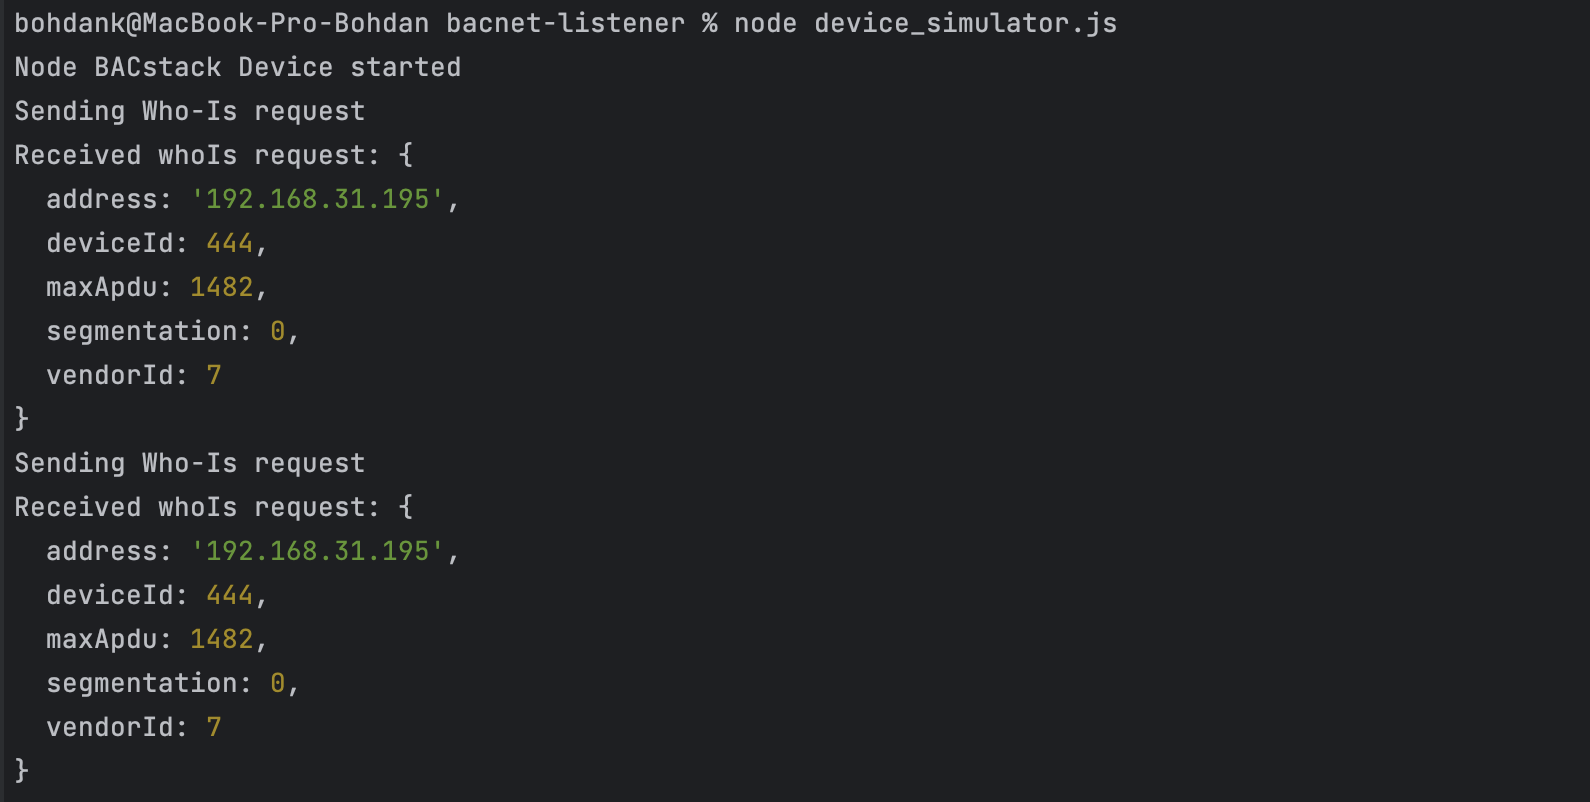
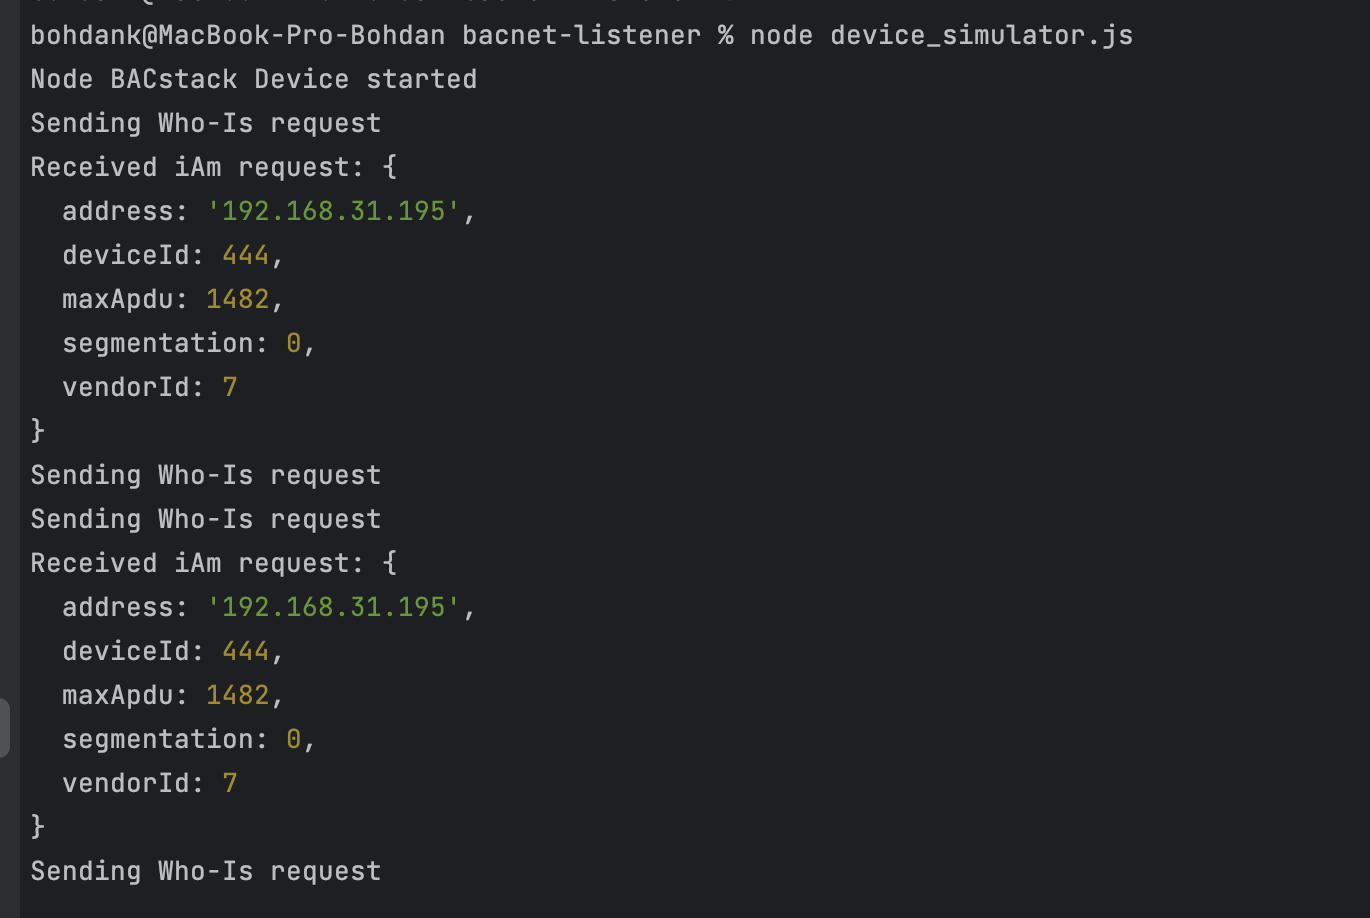
wip README.md

Changed region(s): [[0.0, 0.5611, 0.3372, 0.9663], [0.0, 0.1247, 0.3372, 0.5299], [0.0, 0.0, 0.8277, 0.0935]]

diff --git a/device_simulator.js b/device_simulator.js
@@ -32,7 +32,7 @@ const dataStore = {
 
 // Event listener for 'iAm' messages
 client.on('iAm', (device) => {
-    console.log('Received whoIs request:', device);
+    console.log('Received iAm request:', device);
 });
 
 // Event listener for 'readProperty' requests
